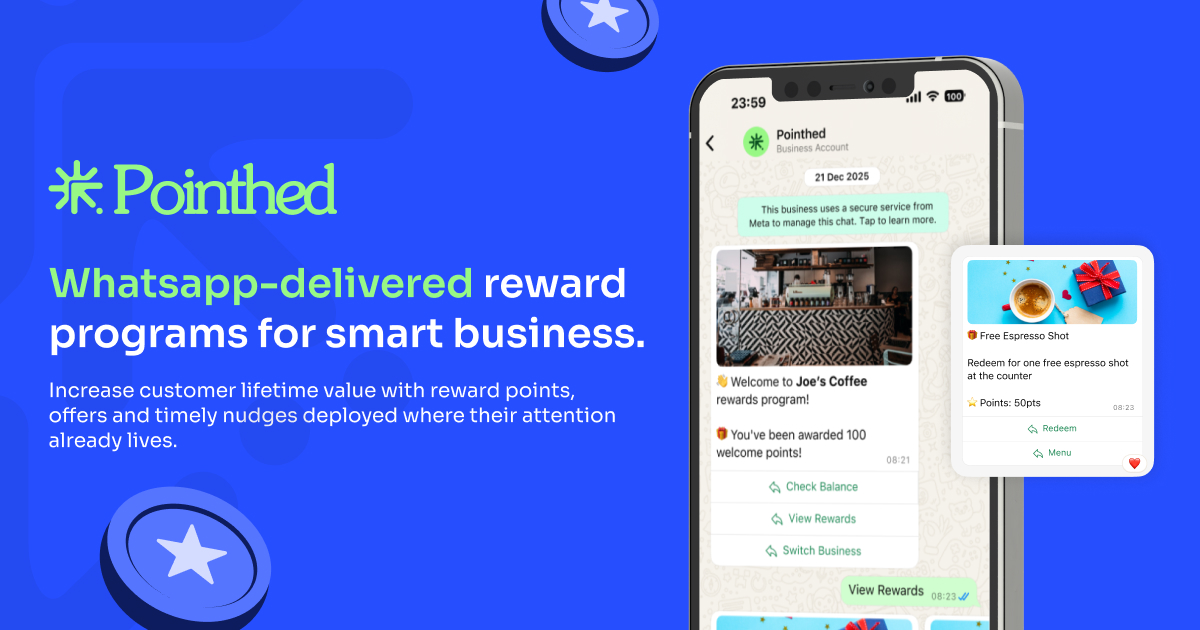
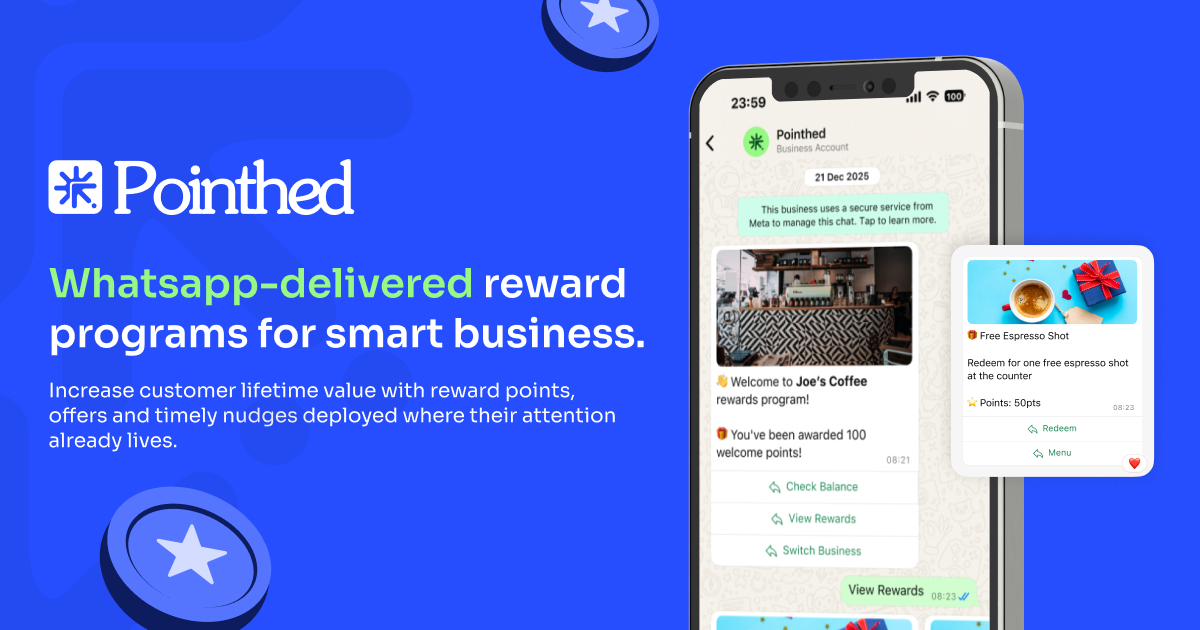
Add square meta-image to og tag

Changed region(s): [[0.0308, 0.2413, 0.3083, 0.3619]]

diff --git a/frontend/index.html b/frontend/index.html
@@ -27,6 +27,12 @@
     <meta property="og:image:height" content="630" />
     <meta property="og:image:alt" content="Pointhed analytics preview" />
 
+        <!-- Square fallback for social placements that favor square crops -->
+    <meta property="og:image" content="https://pointhed.com/meta-image-square.jpg" />
+    <meta property="og:image:width" content="1200" />
+    <meta property="og:image:height" content="1200" />
+    <meta property="og:image:alt" content="Pointhed analytics preview (square)" />
+
     <!-- Twitter -->
     <meta name="twitter:card" content="summary_large_image" />
     <meta name="twitter:site" content="@pointhed" />
